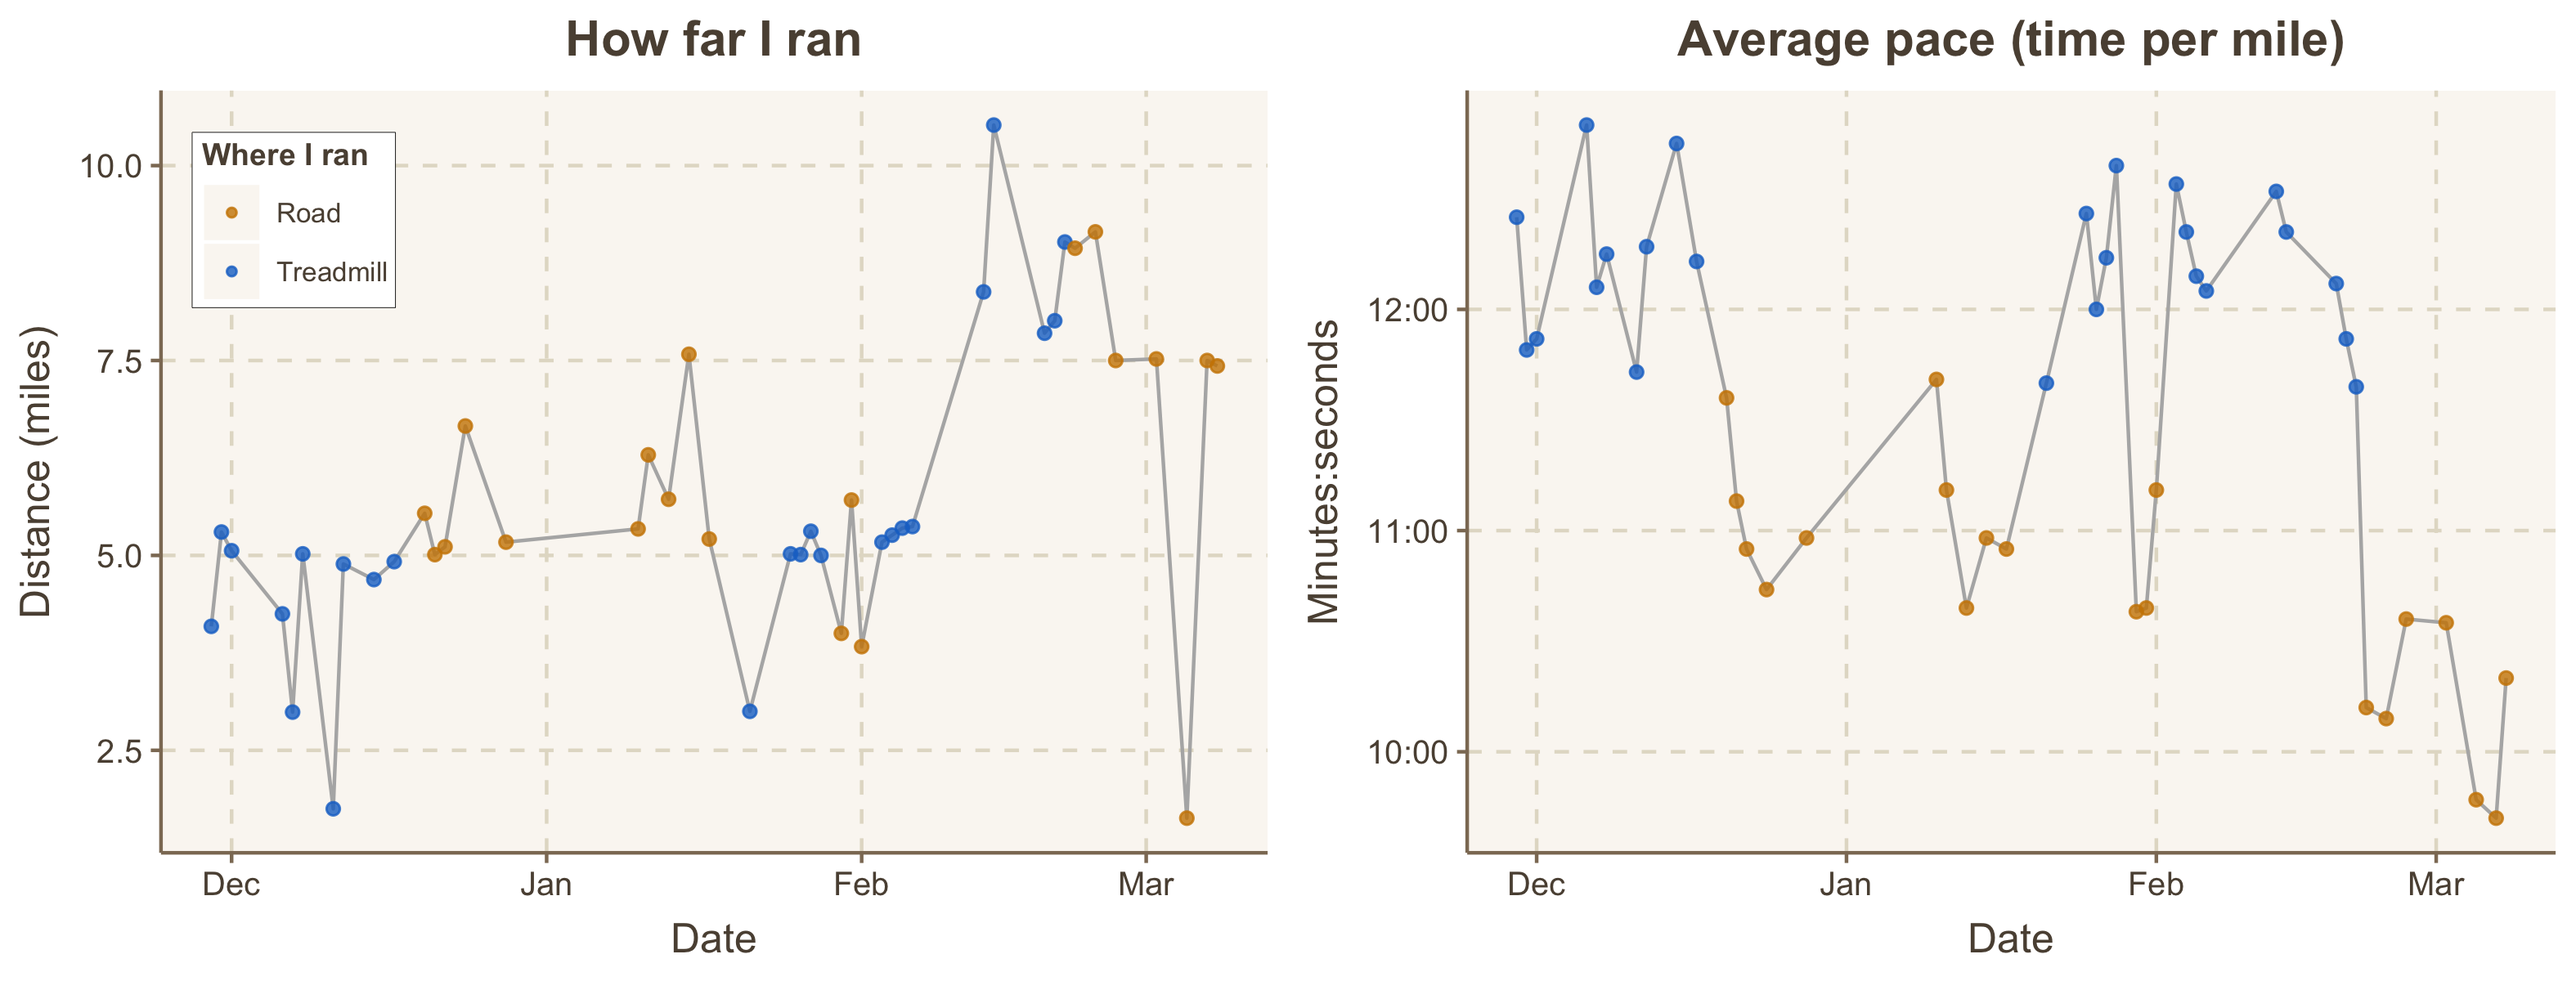
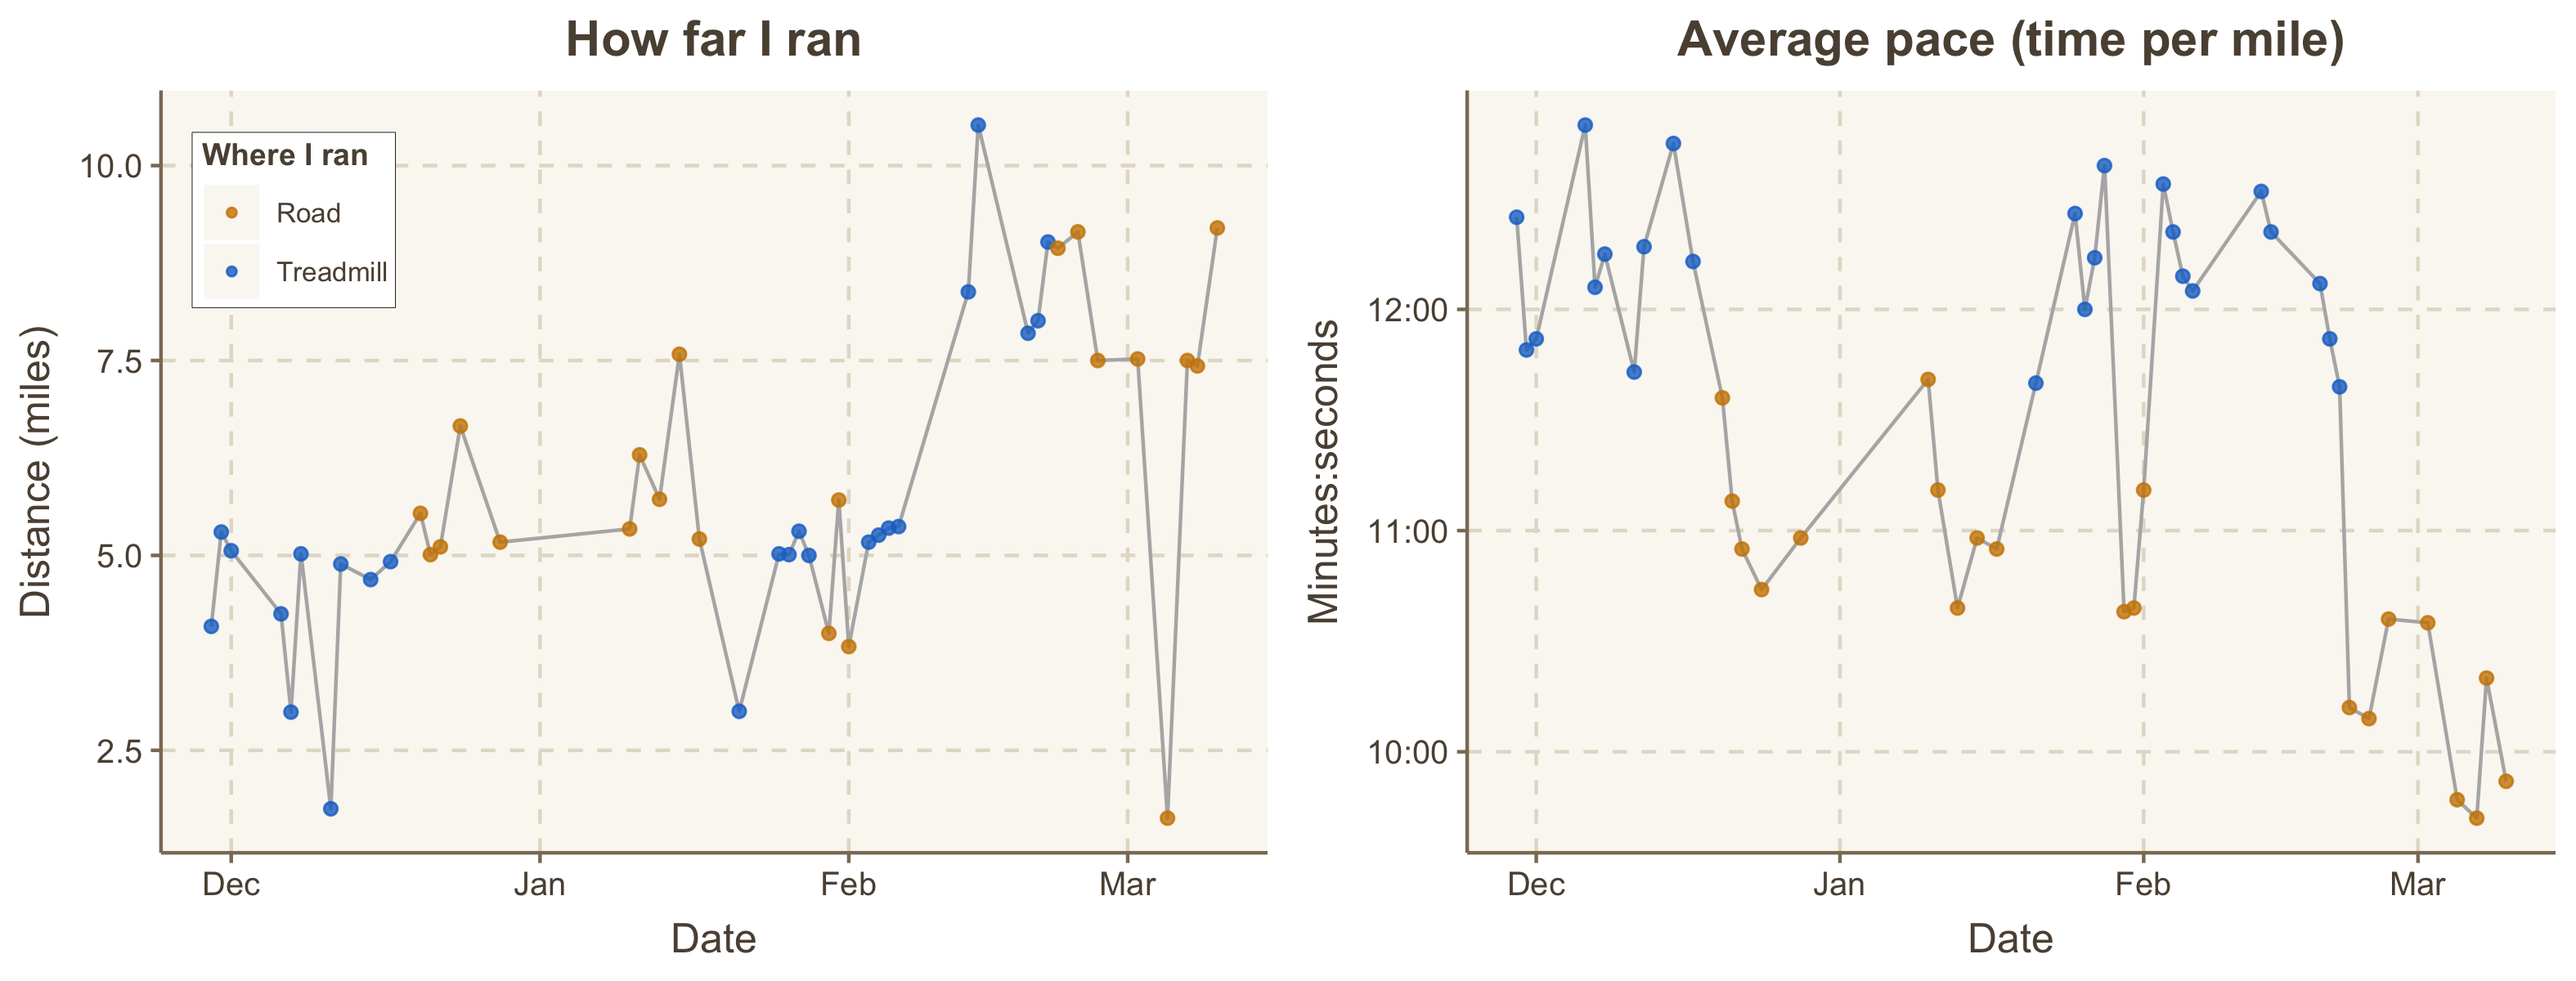
3/10/22

diff --git a/README.md b/README.md
@@ -25,7 +25,7 @@ ggarrange(p1, p2, nrow=1)
 sum(runningData$Miles)
 ```
 
-    ## [1] 252.07
+    ## [1] 261.27
 
 Average distance during the last 10 runs:
 
@@ -33,4 +33,4 @@ Average distance during the last 10 runs:
 mean(tail(runningData$Miles, 10))
 ```
 
-    ## [1] 7.455
+    ## [1] 7.59
